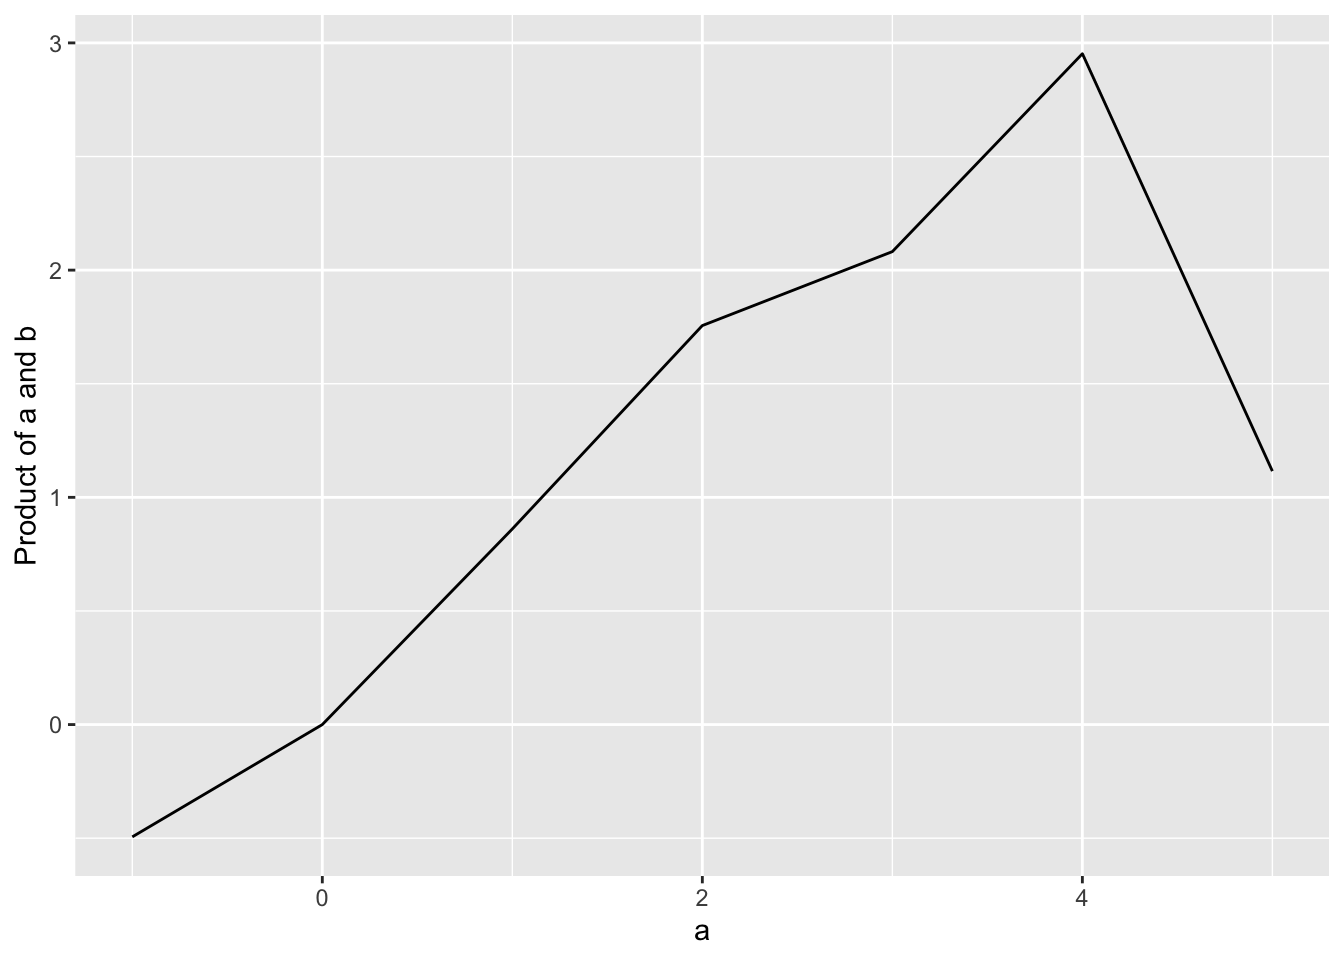
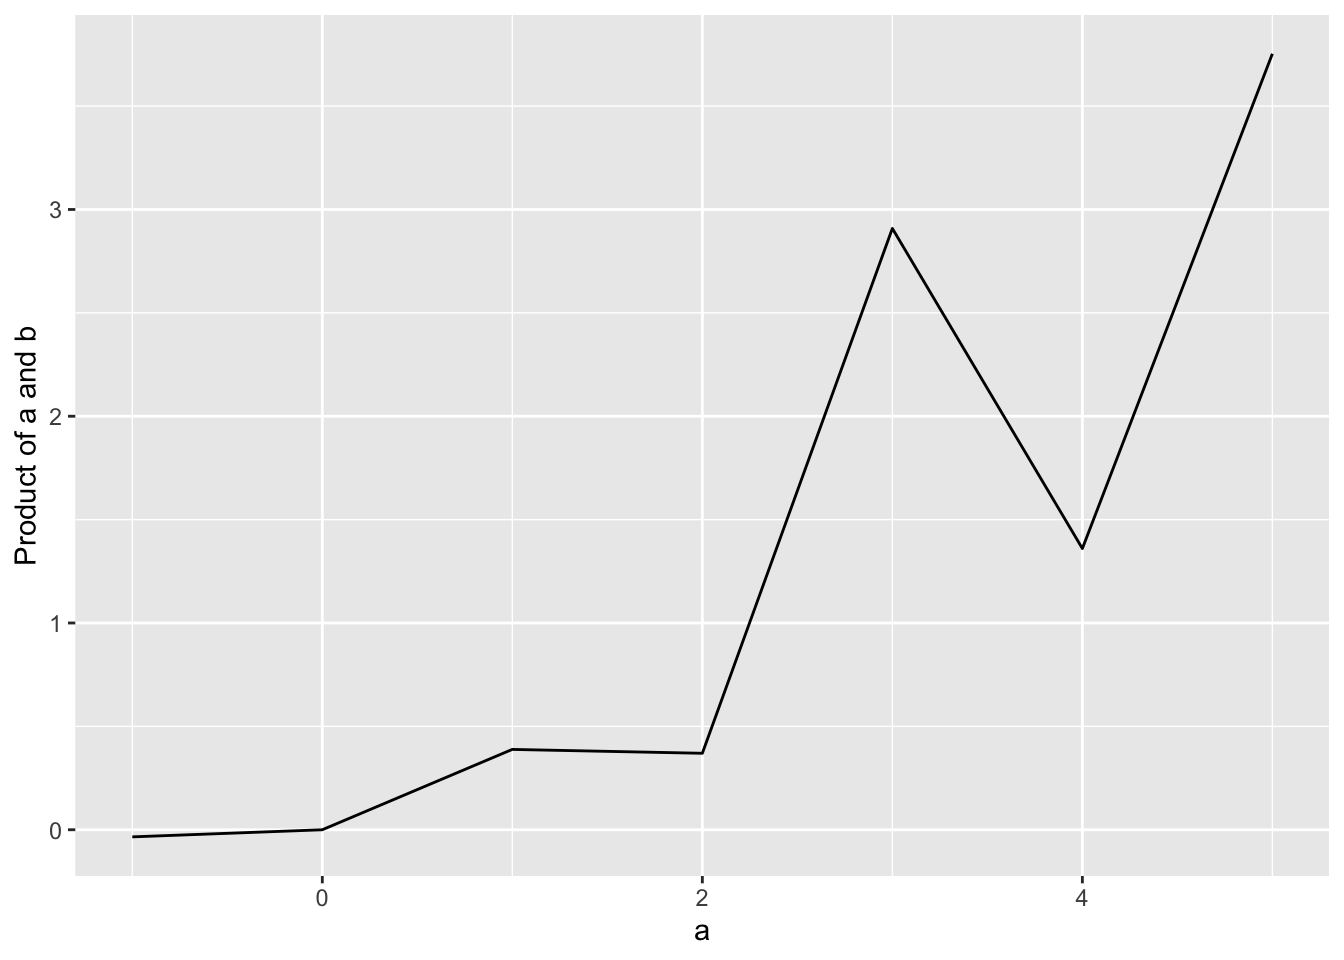
minor update to DI growth

diff --git a/docs/01-computer-setup.html b/docs/01-computer-setup.html
@@ -686,7 +686,7 @@ window.Quarto = {
 <div class="code-copy-outer-scaffold"><div class="sourceCode cell-code" id="cb16"><pre class="sourceCode r code-with-copy"><code class="sourceCode r"><span id="cb16-1"><a href="#cb16-1" aria-hidden="true" tabindex="-1"></a>b <span class="ot">&lt;-</span> <span class="fu">runif</span>(<span class="dv">7</span>, <span class="at">min=</span><span class="dv">0</span>, <span class="at">max=</span><span class="dv">1</span>)</span>
 <span id="cb16-2"><a href="#cb16-2" aria-hidden="true" tabindex="-1"></a>b</span></code></pre></div><button title="Copy to Clipboard" class="code-copy-button"><i class="bi"></i></button></div>
 <div class="cell-output cell-output-stdout">
-<pre><code>[1] 0.4942324 0.8808871 0.8609164 0.8779848 0.6938166 0.7380458 0.2230749</code></pre>
+<pre><code>[1] 0.03446212 0.86245512 0.38867339 0.18491496 0.96934422 0.34004069 0.75062241</code></pre>
 </div>
 </div>
 <p>These will differ every time you do this.</p>
@@ -701,11 +701,12 @@ window.Quarto = {
 </div>
 <div class="code-copy-outer-scaffold"><div class="sourceCode cell-code" id="cb20"><pre class="sourceCode r code-with-copy"><code class="sourceCode r"><span id="cb20-1"><a href="#cb20-1" aria-hidden="true" tabindex="-1"></a>b</span></code></pre></div><button title="Copy to Clipboard" class="code-copy-button"><i class="bi"></i></button></div>
 <div class="cell-output cell-output-stdout">
-<pre><code>[1] 0.4942324 0.8808871 0.8609164 0.8779848 0.6938166 0.7380458 0.2230749</code></pre>
+<pre><code>[1] 0.03446212 0.86245512 0.38867339 0.18491496 0.96934422 0.34004069 0.75062241</code></pre>
 </div>
 <div class="code-copy-outer-scaffold"><div class="sourceCode cell-code" id="cb22"><pre class="sourceCode r code-with-copy"><code class="sourceCode r"><span id="cb22-1"><a href="#cb22-1" aria-hidden="true" tabindex="-1"></a>ab</span></code></pre></div><button title="Copy to Clipboard" class="code-copy-button"><i class="bi"></i></button></div>
 <div class="cell-output cell-output-stdout">
-<pre><code>[1] -0.4942324  0.0000000  0.8609164  1.7559696  2.0814498  2.9521833  1.1153747</code></pre>
+<pre><code>[1] -0.03446212  0.00000000  0.38867339  0.36982992  2.90803267  1.36016274
+[7]  3.75311204</code></pre>
 </div>
 </div>
 <p>You can confirm at a glance that the first and second elements in <code>a</code> times the first and second elements in <code>b</code> equal the first and second elements in <code>ab</code>.</p>
@@ -718,14 +719,14 @@ window.Quarto = {
 <div class="code-copy-outer-scaffold"><div class="sourceCode cell-code" id="cb24"><pre class="sourceCode r code-with-copy"><code class="sourceCode r"><span id="cb24-1"><a href="#cb24-1" aria-hidden="true" tabindex="-1"></a>d <span class="ot">&lt;-</span> <span class="fu">data.frame</span>(<span class="at">a=</span>a, <span class="at">b=</span>b, <span class="at">a_times_b =</span> ab)</span>
 <span id="cb24-2"><a href="#cb24-2" aria-hidden="true" tabindex="-1"></a>d</span></code></pre></div><button title="Copy to Clipboard" class="code-copy-button"><i class="bi"></i></button></div>
 <div class="cell-output cell-output-stdout">
-<pre><code>   a         b  a_times_b
-1 -1 0.4942324 -0.4942324
-2  0 0.8808871  0.0000000
-3  1 0.8609164  0.8609164
-4  2 0.8779848  1.7559696
-5  3 0.6938166  2.0814498
-6  4 0.7380458  2.9521833
-7  5 0.2230749  1.1153747</code></pre>
+<pre><code>   a          b   a_times_b
+1 -1 0.03446212 -0.03446212
+2  0 0.86245512  0.00000000
+3  1 0.38867339  0.38867339
+4  2 0.18491496  0.36982992
+5  3 0.96934422  2.90803267
+6  4 0.34004069  1.36016274
+7  5 0.75062241  3.75311204</code></pre>
 </div>
 </div>
 <p>You could examine the structure of this data frame with <code>str()</code>.</p>
@@ -734,8 +735,8 @@ window.Quarto = {
 <div class="cell-output cell-output-stdout">
 <pre><code>'data.frame':   7 obs. of  3 variables:
  $ a        : int  -1 0 1 2 3 4 5
- $ b        : num  0.494 0.881 0.861 0.878 0.694 ...
- $ a_times_b: num  -0.494 0 0.861 1.756 2.081 ...</code></pre>
+ $ b        : num  0.0345 0.8625 0.3887 0.1849 0.9693 ...
+ $ a_times_b: num  -0.0345 0 0.3887 0.3698 2.908 ...</code></pre>
 </div>
 </div>
 <p>You will also notice now that you can see all of our objects in the Environment pane, in the upper right of RStudio.</p>

diff --git a/docs/06-DI-pop-growth.html b/docs/06-DI-pop-growth.html
@@ -408,14 +408,13 @@ Figure&nbsp;6.1: Earth has now entered the Anthropocene. Geologists are debating
 <li>over short periods of time, deviations to exponential growth still result in patterns that are very similar to exponential growth, and</li>
 <li>we typically don’t know precisely what mechanisms limit exponential growth or by how much, and therefore exponential growth is as good a mathematical description as any.</li>
 </ul>
-<p><em>If you have not already done so, watch <a href="https://drive.google.com/drive/folders/1nWLoEGuWKIWdul9Uvse5qiB1Hf8MCwUv?usp=sharing" target="_blank">lectures 3a and 3b</a> before proceeding.</em></p>
 <section id="population-growth-of-homo-sapiens-a-case-study" class="level3" data-number="6.3.1">
 <h3 data-number="6.3.1" class="anchored" data-anchor-id="population-growth-of-homo-sapiens-a-case-study"><span class="header-section-number">6.3.1</span> Population growth of <em>Homo sapiens</em>: a case study</h3>
 <p>The human population shares many features with other populations. Like other species, humans are distributed unequally around our available habitats, we consume resources and produce waste products, and the size of our population changes over time.</p>
 <p>Humans, as we would we recognize ourselves, have been around for ~300,000 years. Since that time a lot has happened to us, and we have done a lot to alter the planet. About 10,000 years ago, we started to use agriculture to raise a lot of our food, in the <em>agricultural revolution</em>. Oddly, this seems to have contributed simultaneously to both a decline in life span due to poor health, and yet also an increase in population growth rate and a corresponding increase in population size. The state of the human population is dynamic and undergoing transitions that are in different stages in different places around the world <span class="citation" data-cites="lee2011">(<a href="references.html#ref-lee2011" role="doc-biblioref">Lee 2011</a>)</span>.</p>
 <p>Here we examine changes in human population size from 10,000 y ago to 2021. The data are estimates, and we have annual estimates with increasing greater frequency, up until 2021.</p>
 <p>We will calculate the density-independent per capita growth rate for pairs of years in the data set. We’ll do this by written out by hand, and also in R, using code to do everything quickly, efficiently and, importantly, reproducibly, so that you–or anyone–could check your estimatation procedure.</p>
-<p>Recall from lecture (link above) that we often use estimates of <span class="math inline">\(\lambda\)</span> and <span class="math inline">\(r\)</span> to quantify how rapidly a population is growing (or declining) at various points in time. For a population with overlapping generations and reproducing continuously, we can estimate the <em>per capita</em> exponential growth rate at a particular point in time (<span class="math inline">\(r_t\)</span>) using the following equation:</p>
+<p>We often use estimates of <span class="math inline">\(\lambda\)</span> and <span class="math inline">\(r\)</span> to quantify how rapidly a population is growing (or declining) at various points in time. For a population with overlapping generations and reproducing continuously, we can estimate the <em>per capita</em> exponential growth rate at a particular point in time (<span class="math inline">\(r_t\)</span>) using the following equation:</p>
 <p><span id="eq-r"><span class="math display">\[r_t = \frac{\frac{\ln N_{t+h}}{\ln N_t}}{(t+h) - t} \tag{6.1}\]</span></span></p>
 <p>where <span class="math inline">\(N_t\)</span> is the size of the population at some starting time point <span class="math inline">\(t\)</span>, and <span class="math inline">\(N_{t+h}\)</span> is the size of the population after some time interval <span class="math inline">\(h\)</span>, and <span class="math inline">\(\ln\)</span> is the natural logarithm.</p>
 <p>For example, imagine we that in 2020, we had 100 mice and exactly two years later, the population had grown to 150 mice. Here are the values that we would use to calculate <span class="math inline">\(r_t\)</span>:</p>
